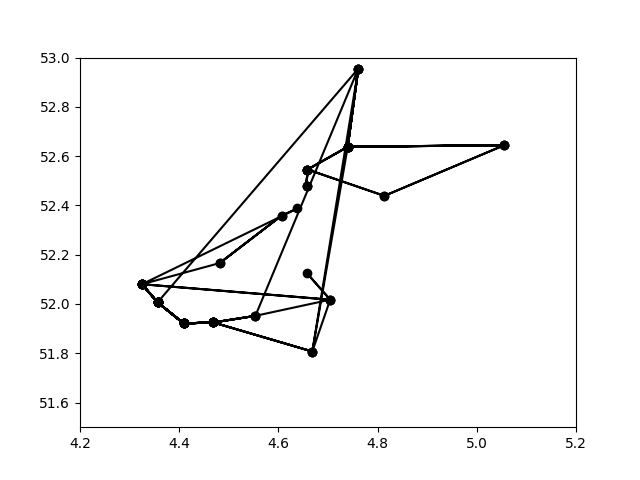
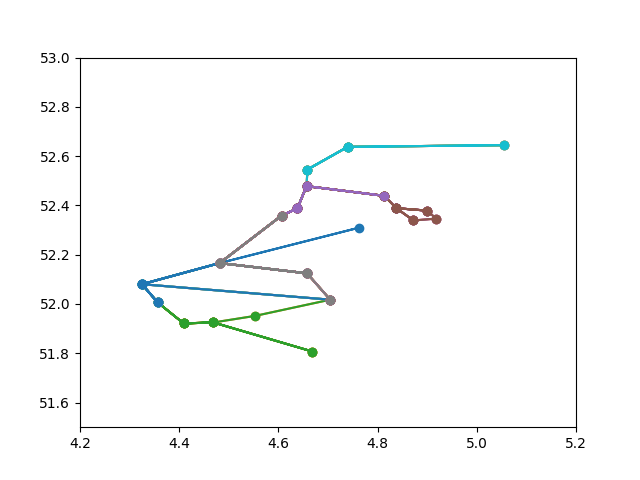
vision plot all 7 routes in different colors and lines

diff --git a/code/visualisations/vision.py b/code/visualisations/vision.py
@@ -4,39 +4,48 @@ from code.classes import network
 from code.classes import routes
 from code.algorithms import random
 import random
+
+from collections import defaultdict
 import csv
 
-coordinates = []
+
 data = []
 trajecten = []
 dictionary = {}
+trein = {}
+
+
 
 def print_stations(test, test2):
-
+    
     for key,value in test2.items():
         trajecten.append(value.stations)
+        
 
     for key,value in test.items():
         dictionary[key] = [float(value.x), float(value.y)]
-
-    colors = ['red', 'green', 'blue', 'yellow', 'grey', 'black', 'purple', 'pink']
+        
     
-    for i in colors:
-        random_color = random.choice(colors)
-        colors.remove(random_color)
-
 
     k = 0
     for traject in trajecten:
-        k += 1
+        data = []
         for station in traject:
             if station[0] in dictionary:
                 data.append(dictionary[station[0]])
-    
-        y, x = zip(*data)
-        plt.ylim(51.5, 53)
-        plt.xlim(4.2, 5.2)
-        plt.plot(x, y, '-o', color='black')
-        plt.savefig("plot.png")
-        plt.show()
-   
+
+        trein[k] = data
+
+        for k in trein:
+            y, x = zip(*data) 
+            plt.plot(x, y, '-o')
+
+        k += 1
+
+    plt.ylim(51.5, 53)
+    plt.xlim(4.2, 5.2)
+    plt.savefig("plot.png")
+    plt.show()
+
+
+
